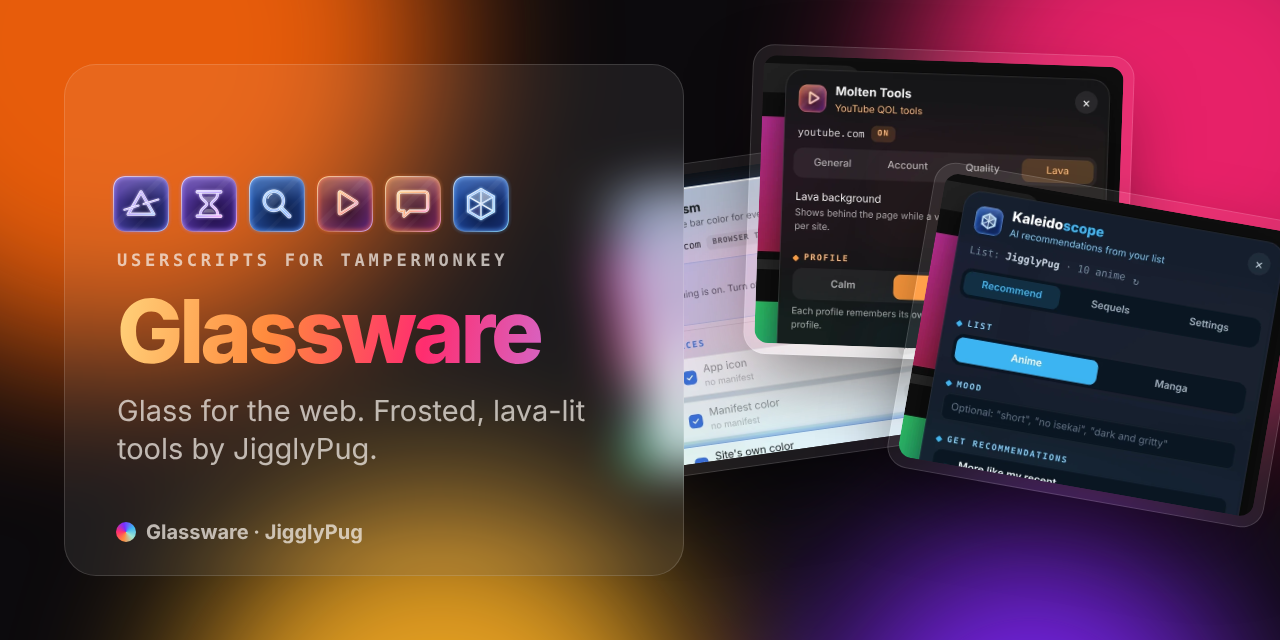
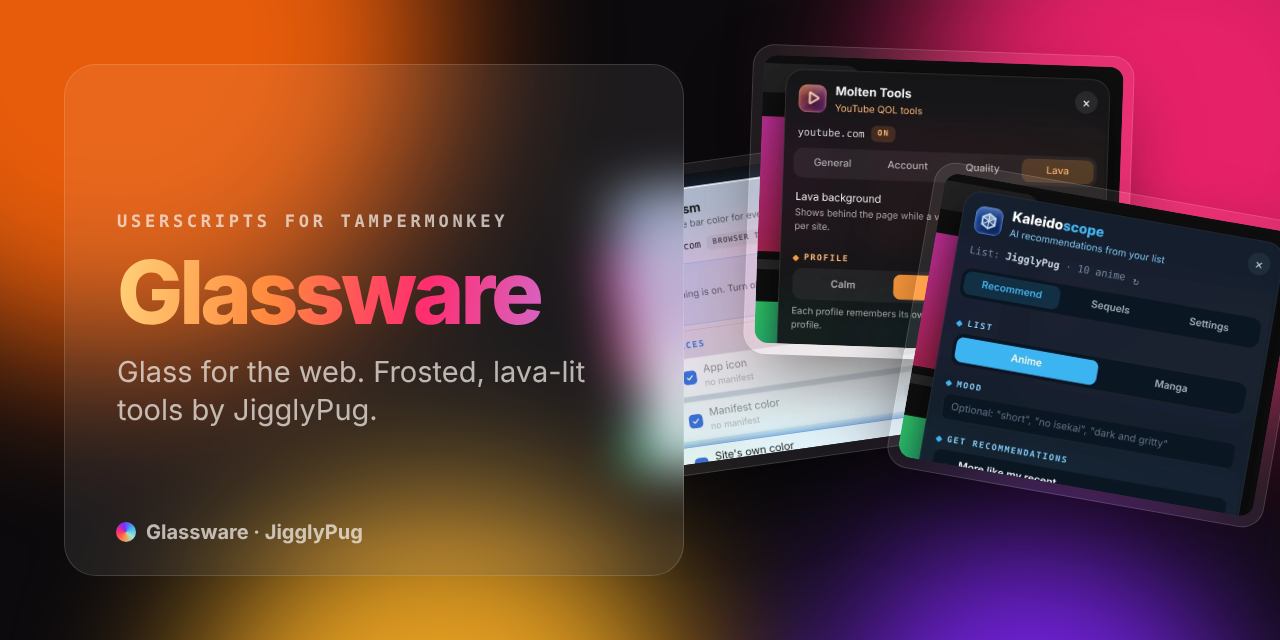
Landing preview goes back to screenshots only
The Glassware link preview drops the icon row so adding a script never
means redrawing it. Per-script previews keep their own icon. CLAUDE.md
updated to match.

Changed region(s): [[0.0625, 0.25, 0.4688, 0.5938], [0.0938, 0.625, 0.4688, 0.7188]]

diff --git a/tools/og.py b/tools/og.py
@@ -47,7 +47,7 @@ p{{margin:0;font-size:29px;line-height:1.3;color:{sb}}}
 .shot{{position:absolute;right:0;top:0;transform:translate(var(--x),var(--y)) rotate(var(--r));border-radius:22px;padding:10px;background:{glass};border:1px solid {edge};box-shadow:0 30px 80px -20px rgba(0,0,0,.55)}}
 .shot img{{display:block;width:var(--w,430px);border-radius:14px}}
 </style></head><body><div class="lava"><i></i><i></i><i></i><i></i></div>
-<div class="panel"><div class="icons">{''.join(f'<img class="ic" src="{data_uri_png(i)}">' for i in icons)}</div><div class="k">{html.escape(kicker)}</div><h1>{html.escape(title)}</h1><p>{html.escape(sub)}</p></div>
+<div class="panel">{('<div class="icons">' + ''.join(f'<img class="ic" src="{data_uri_png(i)}">' for i in icons) + '</div>') if icons else ''}<div class="k">{html.escape(kicker)}</div><h1>{html.escape(title)}</h1><p>{html.escape(sub)}</p></div>
 <div class="brand"><span class="dot"></span>Glassware · JigglyPug</div>{imgs}</body></html>"""
 
 def lead(p):
@@ -63,8 +63,8 @@ if __name__ == '__main__':
         # landing: three panels fanned out
         fan = [(f'{R}/desktop/prism/images/card.webp', -8, -300, 150, 1), (f'{R}/desktop/molten-tools/images/card.webp', 2, -150, 50, 2),
                (f'{R}/desktop/kaleidoscope/images/card.webp', 10, 10, 190, 3)]
-        render(card_html('molten', 'Userscripts for Tampermonkey', 'Glassware', 'Glass for the web. Frosted, lava-lit tools by JigglyPug.', fan, True,
-                         [f'{R}/assets/icons/{n}.png' for n in ['prism', 'hourglass', 'looking-glass', 'molten-tools', 'molten-for-reddit', 'kaleidoscope']]), f'{D}/og.png')
+        # landing preview: screenshots only (no icon row), so a new script doesn't mean redrawing it
+        render(card_html('molten', 'Userscripts for Tampermonkey', 'Glassware', 'Glass for the web. Frosted, lava-lit tools by JigglyPug.', fan, True), f'{D}/og.png')
         for p, s in S.items():
             slug = p.split('/')[1]; th = THEME[p][0]
             kicker = s.get('kicker') or (('Mobile' if s.get('runs_on_phone') else 'Desktop') + ' userscript')

diff --git a/CLAUDE.md b/CLAUDE.md
@@ -89,8 +89,9 @@ existing ones on it.
   - **Where the app icons appear** (all of these change together): Tampermonkey (`@icon`), the
     panel header tile (static or live, above), Hourglass's block screen and lockdown card,
     Looking-Glass's badge menu, each script's README (top) and the front-page README cards, the
-    site's landing cards, product-page hero, "More" links and per-page favicon, and the link
-    previews (`docs/og.png`, `docs/img/<script>/og.png`). The pages pull the icons from
+    site's landing cards, product-page hero, "More" links and per-page favicon, and each script's
+    link preview (`docs/img/<script>/og.png`). The landing preview (`docs/og.png`) stays
+    screenshots only, with no icons, so adding a script doesn't mean redrawing it. The pages pull the icons from
     `assets/icons/` when `python3 tools/pages.py` runs, so rebuild the pages after any icon change.
     The GitHub social preview is uploaded by hand (repo Settings → Social preview, `docs/og.png`).
   - After redrawing the icons: `node tools/icons.js`, scale them to 256px,
